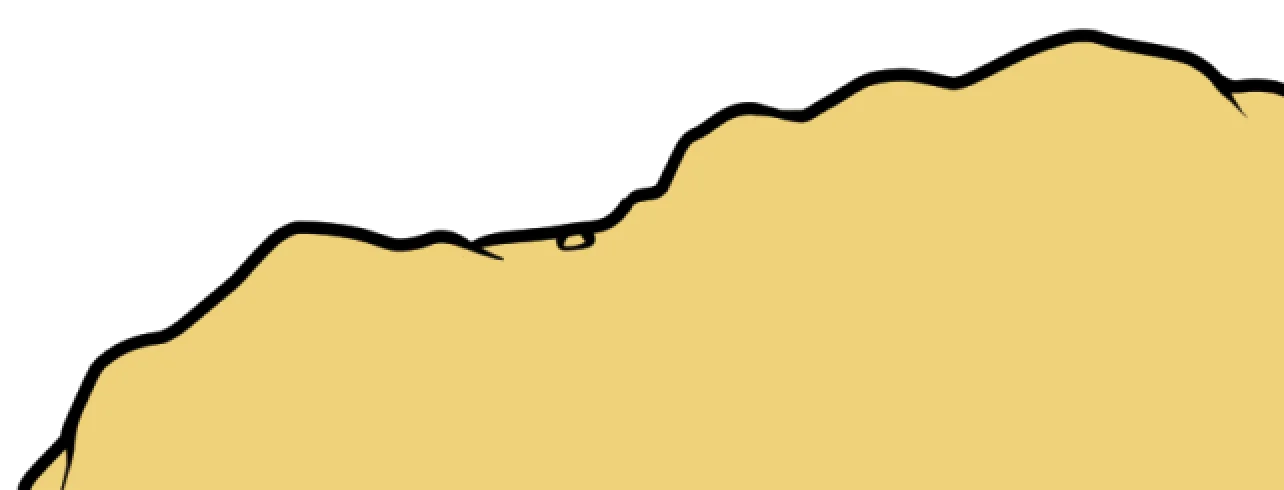
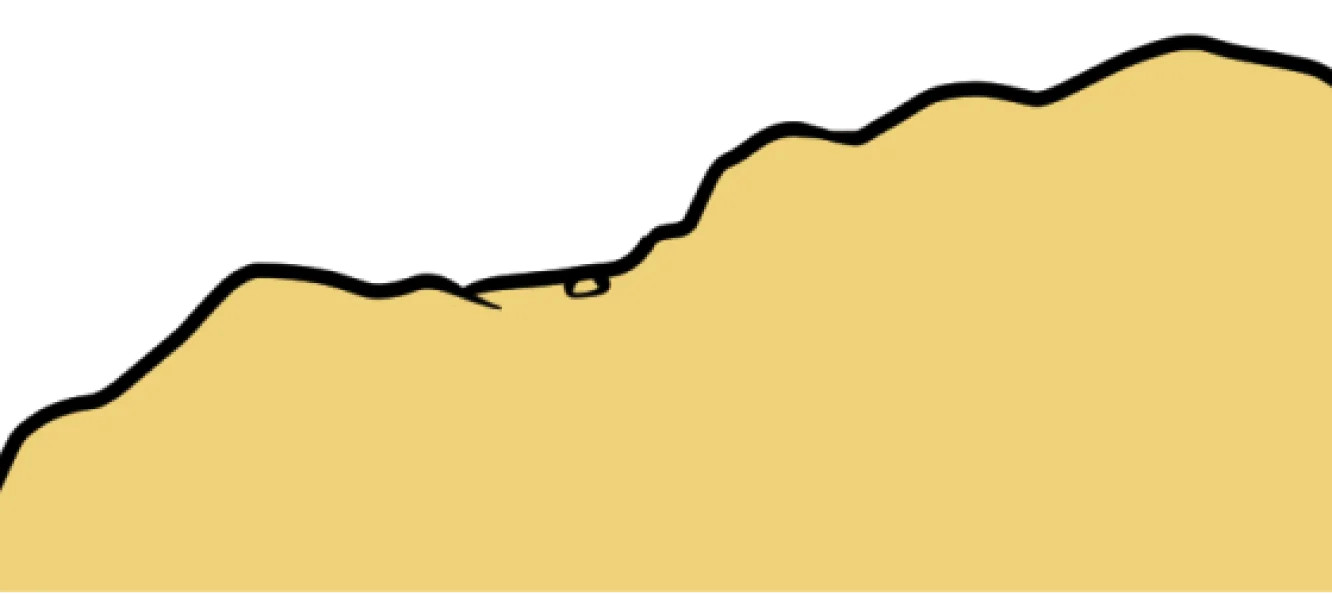
Change bg image

Changed region(s): [[0.0, 0.0306, 1.0, 1.0]]

diff --git a/src/app/page.tsx b/src/app/page.tsx
@@ -98,7 +98,7 @@ export default function Home() {
         </button>
       </div>
 
-      <div className="w-[643px] h-[251px] absolute right-0 bottom-0 flex items-end justify-end">
+      <div className="w-[444px] h-[199px] absolute right-0 bottom-0 flex items-end justify-end">
         <Image
           className="object-contain"
           src={ground}
